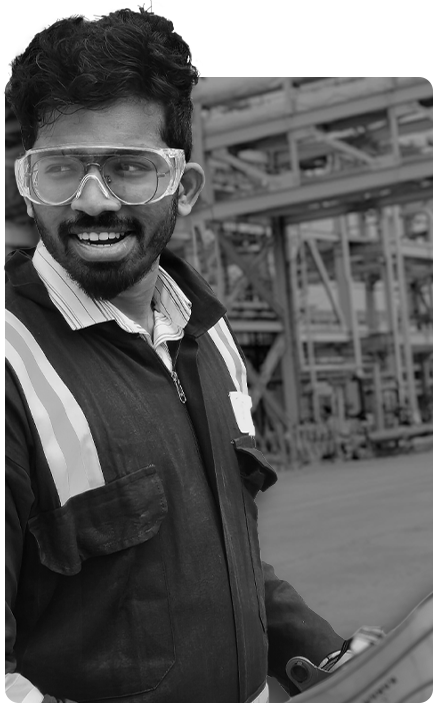
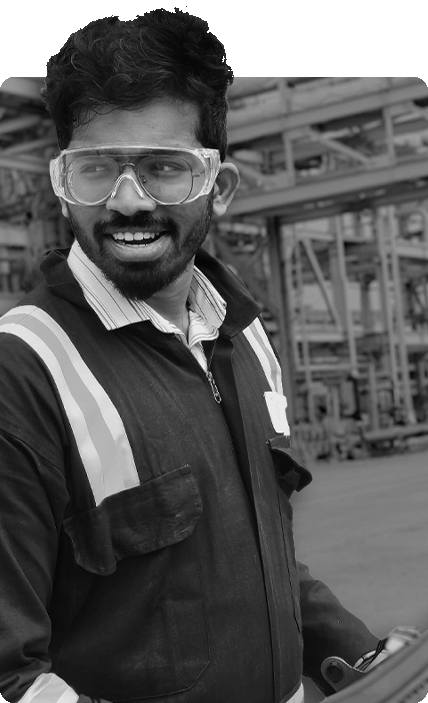
img tweaks

diff --git a/New Site/Pages/hero.html b/New Site/Pages/hero.html
@@ -47,7 +47,7 @@
       </article>
       <article class="nirmal">
         <img src="/Assets/NewAssets/Img/Nirmal_Hero_HighRes.png" alt="" height="1035" width="921" class="desktop-img">
-        <img src="/Assets/NewAssets/Img/Nirmal_Hero_NormalRes.png" alt="" height="703" width="433" class="mobile-img">
+        <img src="/Assets/NewAssets/Img/Nirmal_Hero_NormalRes.png" alt="" height="703" width="428" class="mobile-img">
         <div class="description">
           <ul>
             <li>Mechanical Engineer</li>
